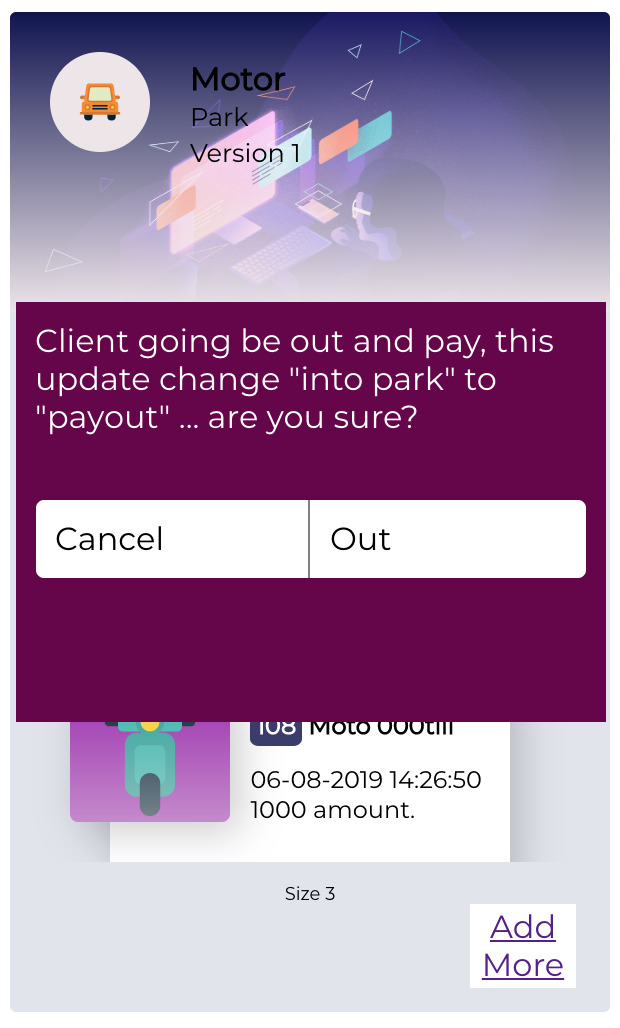
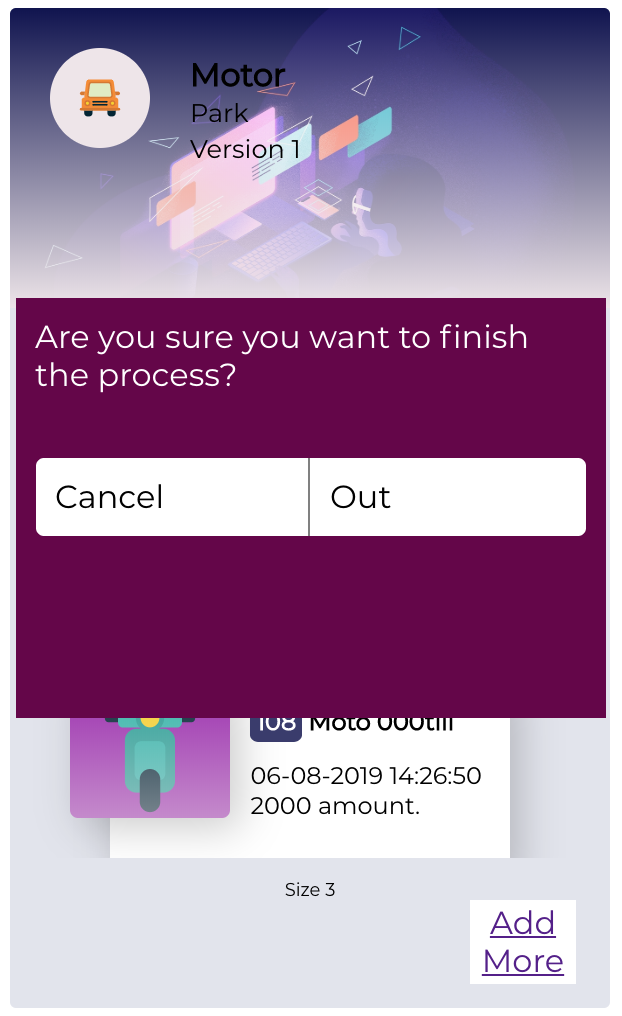
reviewed

diff --git a/client/src/components/list/List.js b/client/src/components/list/List.js
@@ -132,7 +132,7 @@ class List extends Component<Props, State> {
         return (
             <div className="container"> 
             <div className={this.state.class_modal}>
-                <div className="message"> Client going be out and pay, this update change "into park" to "payout" ... are you sure?</div>
+                <div className="message"> Are you sure you want to finish the process?</div>
                 <div className="container-modal-button">
                     <div onClick={this.cancelAction} className="cancel">Cancel</div>
                     <div onClick={this.sendAction} className="update">Out</div>

diff --git a/README.md b/README.md
@@ -1,18 +1,18 @@
 # motorpark
 Mini app to register vehicles.
 ## screen 1
-    the first screen we have a list for vehicles.
-    you cand seach by licence Plate or by type of vehicle.
+    1. In the first screen we have a list of vehicles.
+You can seach by licence plate or by type of vehicle.
 
 ![Alt text](/screenshot/screenshot1.png?raw=true "List")
 
 ## screen 2 
-    the second it's by create a new insert into the sistem. 
-    you should choose a type  vehicle and save
+    2. The second screen is to create a new item into the system. You can choose a type of vehicle and saved.
+
 ![Alt text](/screenshot/screenshot2.png?raw=true "List")
 ## screen 3 
-    Modal for update the status when client going be out and pay.
-    you can filter, and you can click in a vehicle to update
+    Modal for update the status. When client is going out and paid. You can filter and click in a vehicle to update the status.
+
 ![Alt text](/screenshot/screenshot3.png?raw=true "List")
 # TO INIT THE APP
 The app Contain 3 folders for server and client and database.
